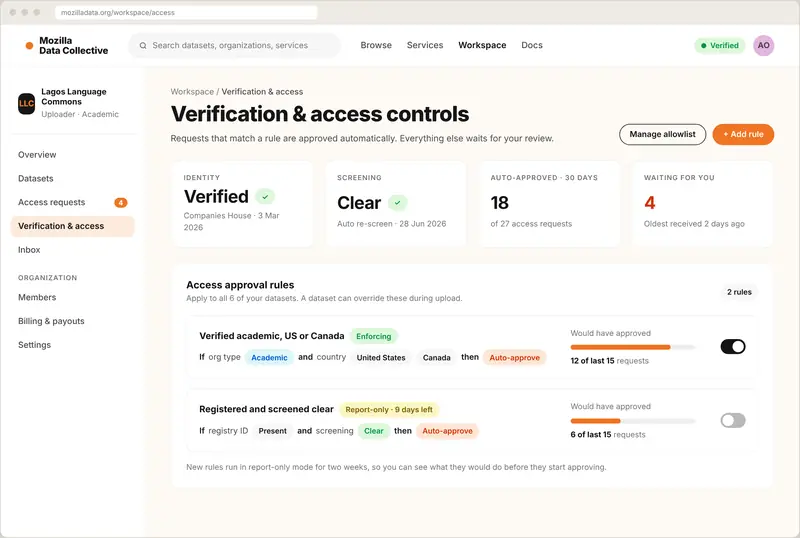
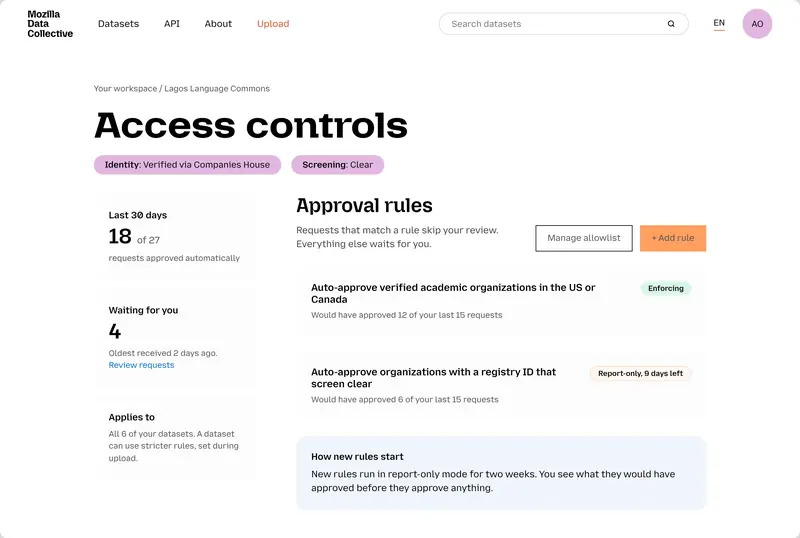
Rebuild MDC final designs on the production brand
Claude-Session: https://claude.ai/code/session_013nNpA9FBnVwprHwe8g4KGN

diff --git a/mdc.html b/mdc.html
@@ -253,19 +253,19 @@ body::before { content: ""; position: fixed; inset: 0; z-index: -1; pointer-even
     <section class="slider" aria-roledescription="carousel" aria-label="Final designs">
       <div class="slides" id="slides" tabindex="0" aria-label="Final designs, scroll or use the buttons below">
         <figure class="slide" id="final-1" aria-roledescription="slide" aria-label="1 of 3: Access controls">
-          <a class="frame" href="images/mdc-final-access.webp" aria-label="Open this design full size"><img src="images/mdc-final-access.webp" srcset="images/mdc-final-access-sm.webp 800w, images/mdc-final-access.webp 1600w" sizes="(max-width: 1088px) 100vw, 1040px" width="1600" height="1075" decoding="async" loading="eager" fetchpriority="high" alt="Verification and access controls for Lagos Language Commons: identity verified, screening clear, 18 of 27 requests auto-approved in 30 days, 4 waiting for review, and two approval rules, one enforcing and one in report-only mode, each showing how many recent requests it would have approved."></a>
+          <a class="frame" href="images/mdc-final-access.webp" aria-label="Open this design full size"><img src="images/mdc-final-access.webp" srcset="images/mdc-final-access-sm.webp 800w, images/mdc-final-access.webp 1600w" sizes="(max-width: 1088px) 100vw, 1040px" width="1600" height="1075" decoding="async" loading="eager" fetchpriority="high" alt="The Access controls page for Lagos Language Commons: identity verified and screening clear, 18 of 27 requests approved automatically in the last 30 days, 4 waiting for review, and two approval rules, one enforcing and one in report-only mode, each showing how many recent requests it would have approved."></a>
           <figcaption><strong><span>1 / 3</span>Access controls</strong>
             <dl class="pi"><div><dt>Problem</dt><dd>Owners wanted to approve every download, which meant a review queue nobody could keep up with.</dd></div><div><dt>Impact</dt><dd>Rules handle routine requests, and each rule shows what it would have done before it goes live. Request to Access launched in May 2026.</dd></div></dl>
           </figcaption>
         </figure>
         <figure class="slide" id="final-2" aria-roledescription="slide" aria-label="2 of 3: Trust and quality signals">
-          <a class="frame" href="images/mdc-final-quality.webp" aria-label="Open this design full size"><img src="images/mdc-final-quality.webp" srcset="images/mdc-final-quality-sm.webp 800w, images/mdc-final-quality.webp 1600w" sizes="(max-width: 1088px) 100vw, 1040px" width="1600" height="1075" decoding="async" loading="lazy" alt="A dataset page for the Yorùbá Conversational Speech Corpus with a Request access panel and five trust and quality signals: documentation score 8.7 out of 10, Croissant and FAIR standards, CC BY-SA 4.0 licence, gated access, and two third-party verification badges, with the standards evidence expanded."></a>
+          <a class="frame" href="images/mdc-final-quality.webp" aria-label="Open this design full size"><img src="images/mdc-final-quality.webp" srcset="images/mdc-final-quality-sm.webp 800w, images/mdc-final-quality.webp 1600w" sizes="(max-width: 1088px) 100vw, 1040px" width="1600" height="1075" decoding="async" loading="lazy" alt="The dataset page for the Yorùbá Conversational Speech Corpus: license and steward tags, task, release date, format and size, Request access and Connect API buttons, and a Trust and quality section with a documentation score of 8.7 out of 10, Croissant and FAIR standards, and two third-party verifications."></a>
           <figcaption><strong><span>2 / 3</span>Trust and quality signals</strong>
-            <dl class="pi"><div><dt>Problem</dt><dd>Buyers couldn't tell whether a dataset was documented, properly licensed, or independently checked without downloading it first.</dd></div><div><dt>Impact</dt><dd>Five signals, each with its evidence one click away, so buyers can judge a dataset before they request it.</dd></div></dl>
+            <dl class="pi"><div><dt>Problem</dt><dd>Buyers couldn't tell whether a dataset was documented, properly licensed, or independently checked without downloading it first.</dd></div><div><dt>Impact</dt><dd>Documentation, standards, and third-party verification, each with its evidence, so buyers can judge a dataset before they request it.</dd></div></dl>
           </figcaption>
         </figure>
         <figure class="slide" id="final-3" aria-roledescription="slide" aria-label="3 of 3: Request to connect">
-          <a class="frame" href="images/mdc-final-connect.webp" aria-label="Open this design full size"><img src="images/mdc-final-connect.webp" srcset="images/mdc-final-connect-sm.webp 800w, images/mdc-final-connect.webp 1600w" sizes="(max-width: 1088px) 100vw, 1040px" width="1600" height="1075" decoding="async" loading="lazy" alt="A Request to connect dialog over the Acme Analytics Data Curation service page: provider details, a message, a linked dataset, a note that contact details stay hidden until both organizations accept, and Cancel and Send request buttons."></a>
+          <a class="frame" href="images/mdc-final-connect.webp" aria-label="Open this design full size"><img src="images/mdc-final-connect.webp" srcset="images/mdc-final-connect-sm.webp 800w, images/mdc-final-connect.webp 1600w" sizes="(max-width: 1088px) 100vw, 1040px" width="1600" height="1075" decoding="async" loading="lazy" alt="A Request to connect dialog over the Acme Analytics Data Curation service page, with a message, a linked dataset, a note that contact details stay hidden until both organizations accept, and Cancel and Send request buttons."></a>
           <figcaption><strong><span>3 / 3</span>Request to connect</strong>
             <dl class="pi"><div><dt>Problem</dt><dd>Organizations needed curation and annotation help, but neither side wanted to share contact details with a stranger.</dd></div><div><dt>Impact</dt><dd>Buyers send a request, and contact details stay hidden until both sides agree. It gives the platform a services marketplace staff can review and run.</dd></div></dl>
           </figcaption>

diff --git a/index.html b/index.html
@@ -235,7 +235,7 @@ body::before { content: ""; position: fixed; inset: 0; z-index: -1; pointer-even
           <p class="desc">Site architecture, access controls, quality signals, and a services marketplace for Mozilla's data platform. Pricing research across 200+ datasets, a survey, and a false door tested demand before anything was built.</p>
           <div class="outcome"><span class="label">Outcome</span><p>Request to Access launched in May 2026. The platform holds 600+ datasets from 190+ vetted organizations in 300+ languages.</p></div>
         </div>
-        <div class="frame"><img src="images/mdc-final-card.webp" width="800" height="500" decoding="async" alt="A Mozilla Data Collective dataset page with a Request access panel and trust and quality signals: documentation score, standards, licence, access, and third-party verification." loading="eager" fetchpriority="high"></div>
+        <div class="frame"><img src="images/mdc-final-card.webp" width="800" height="500" decoding="async" alt="A Mozilla Data Collective dataset page with license and steward tags, a Request access button, and a Trust and quality section." loading="eager" fetchpriority="high"></div>
       </a>
 
       <a class="entry flip" href="common-voice.html">
@@ -296,7 +296,7 @@ body::before { content: ""; position: fixed; inset: 0; z-index: -1; pointer-even
       <h2 id="built-h">This site is built light, on purpose.</h2>
       <p class="intro">I directed it and Claude Code wrote it. Plain HTML and CSS with no frameworks or trackers, self-hosted fonts, and WebP images with fixed dimensions. Structured data and an <a href="llms.txt">llms.txt</a> help search engines and AI tools read it. Measured with Lighthouse on November 2, 2026.</p>
       <dl class="specs">
-        <div><dt>184 KB</dt><dd>Home page weight, fonts and images included</dd></div>
+        <div><dt>177 KB</dt><dd>Home page weight, fonts and images included</dd></div>
         <div><dt>9</dt><dd>Requests on the home page</dd></div>
         <div><dt>0.7 KB</dt><dd>JavaScript, for the copy-email button</dd></div>
         <div><dt>0</dt><dd>Frameworks, cookies, or trackers</dd></div>
